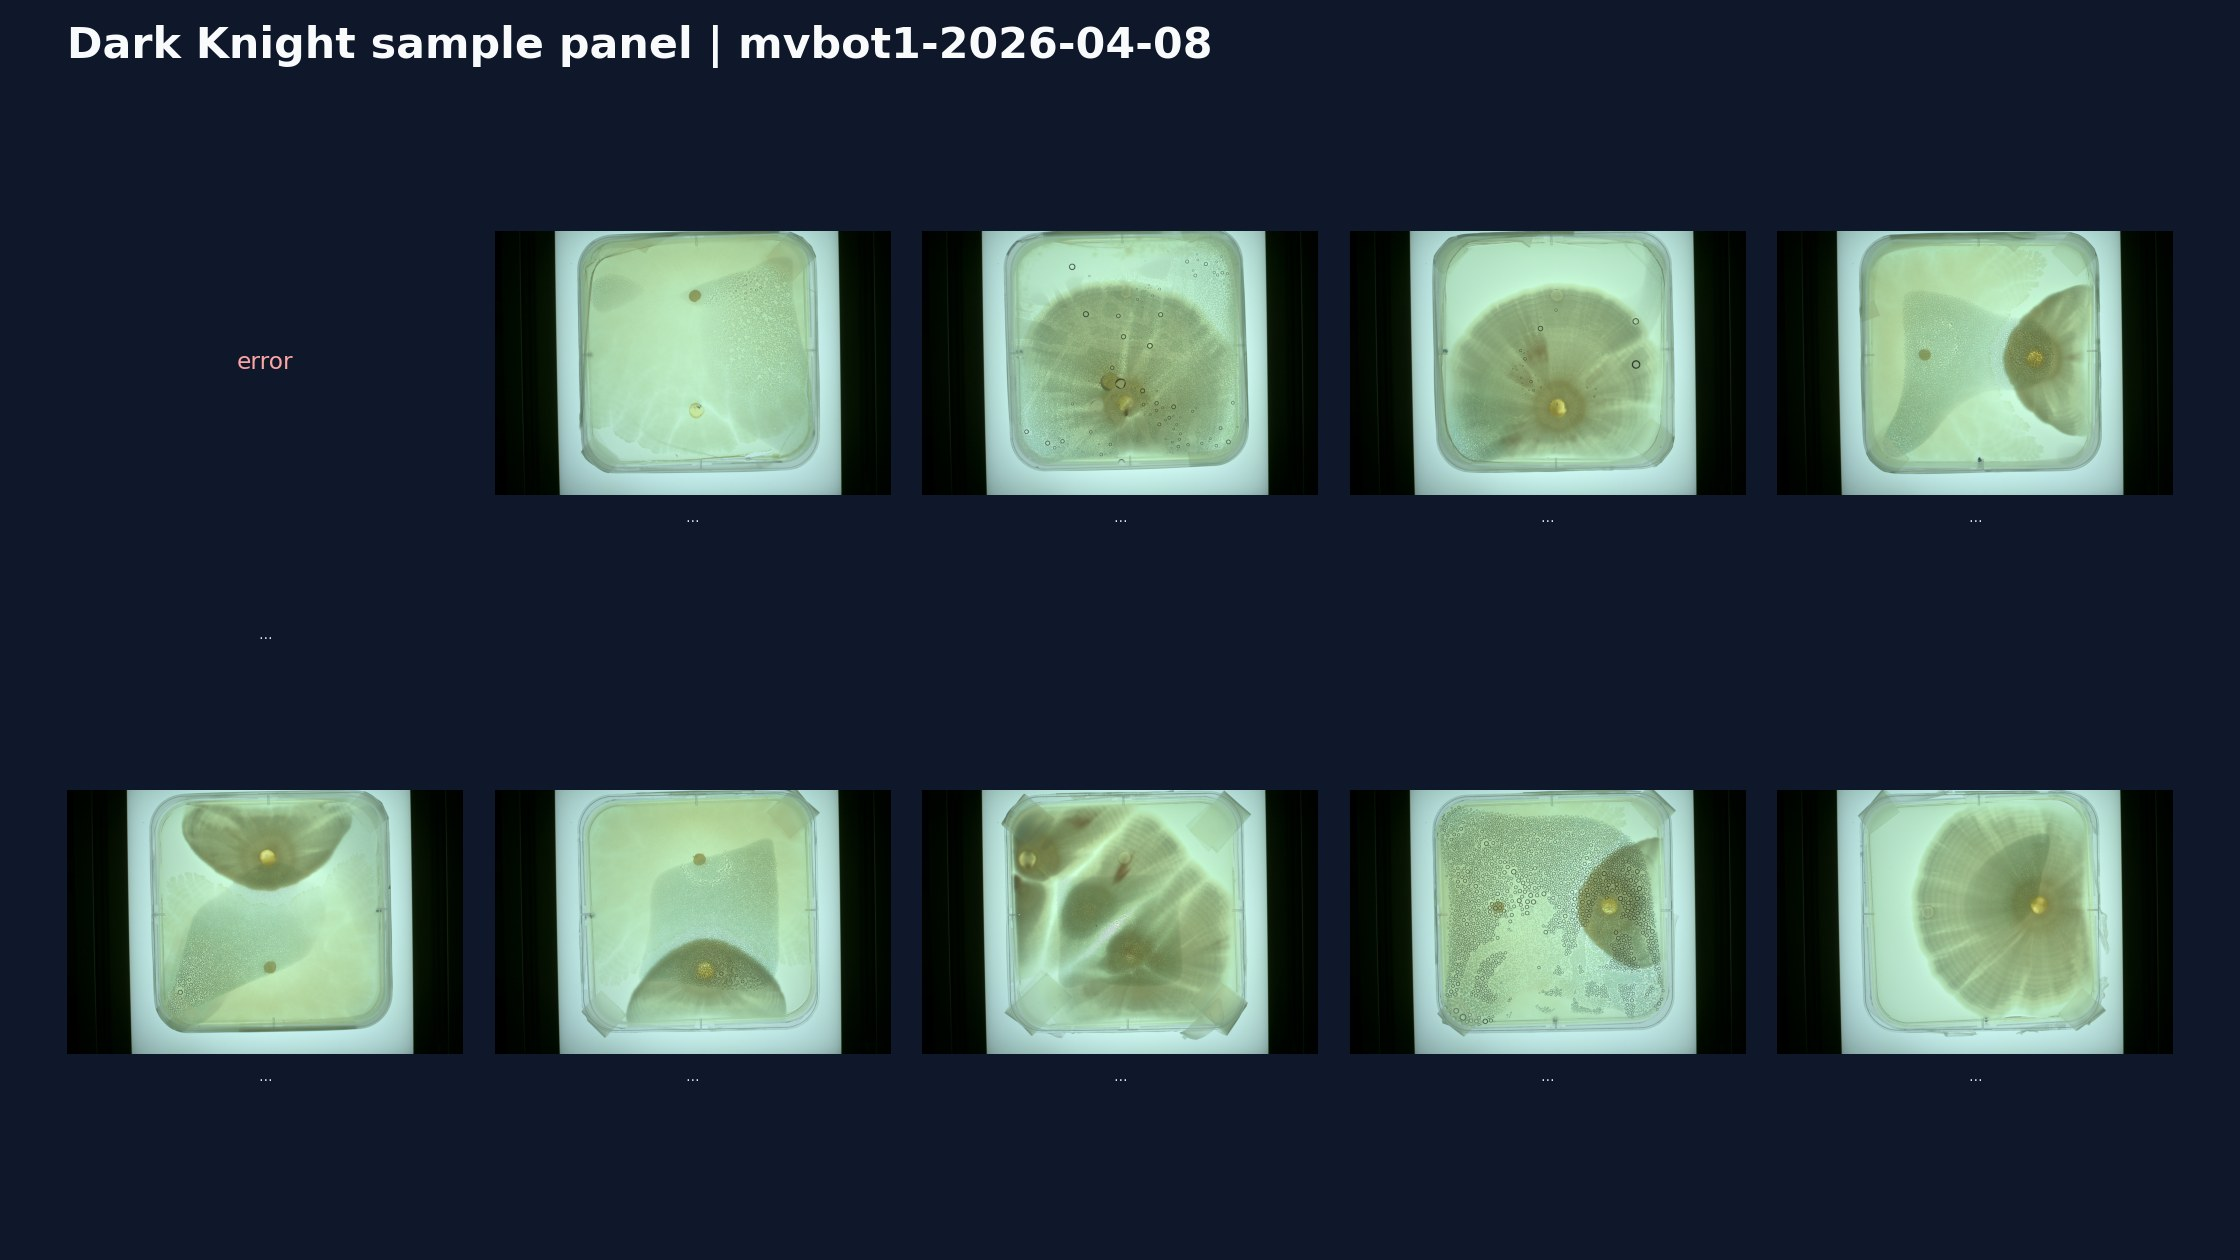
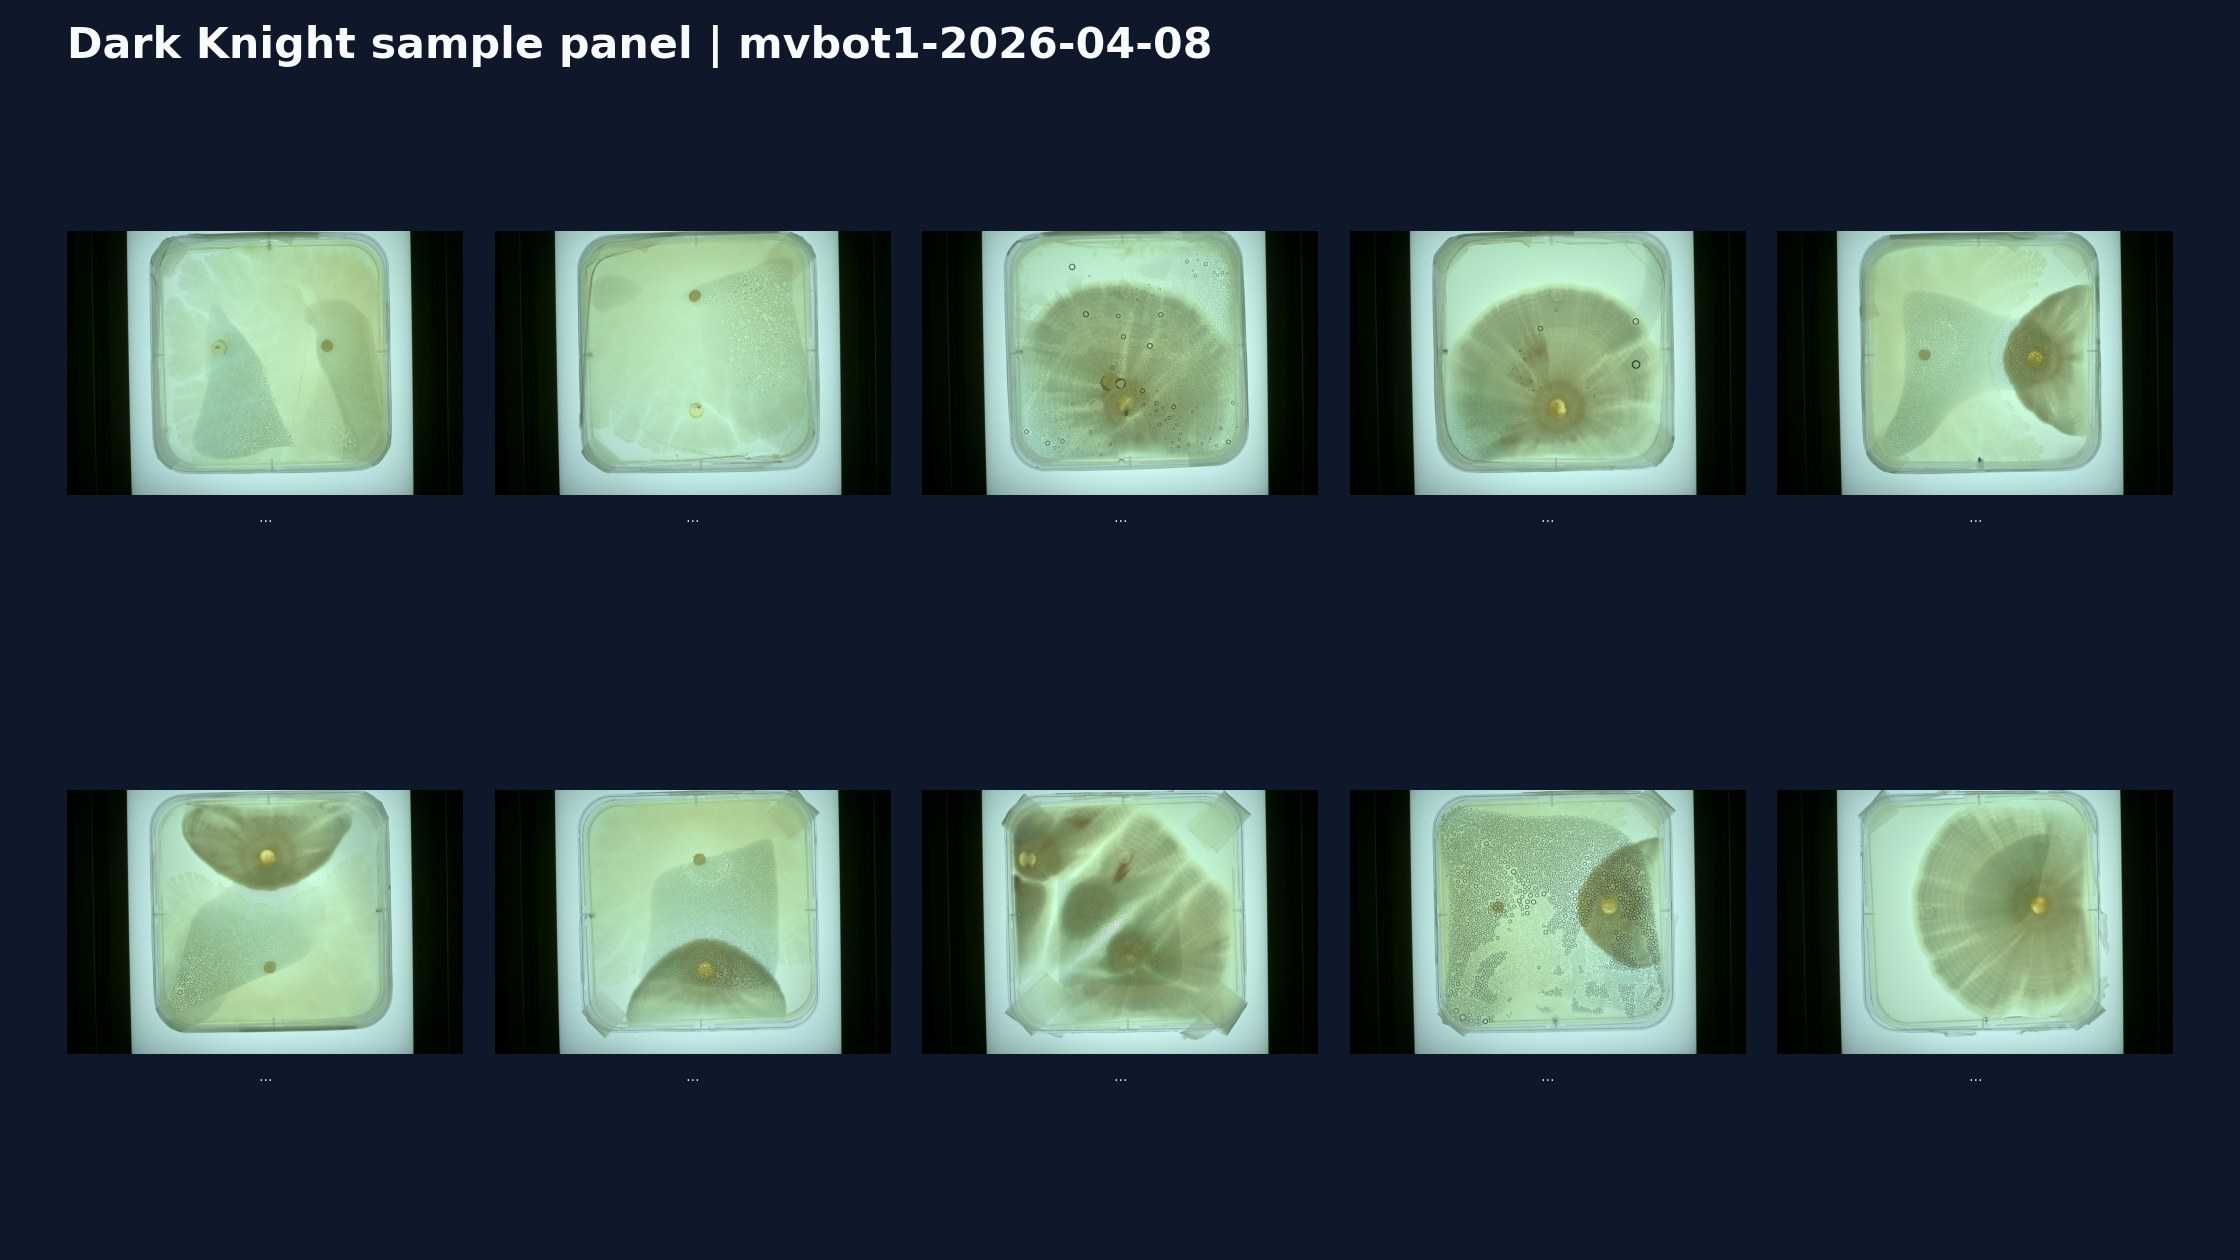
update summary

Changed region(s): [[0.0312, 0.1857, 0.2188, 0.4024]]

diff --git a/index.html b/index.html
@@ -172,25 +172,25 @@
                 <div>
                     <p class="eyebrow">Dark Knight Summary Page</p>
                     <h1>&#x1F987; Dark Knight Agent &#x1F50D;</h1>
-                    <p class="subtitle">Experiment: mvbot1.007<br />Updated: 2026-04-20 08:34:50 EDT</p>
+                    <p class="subtitle">Experiment: mvbot1.007<br />Updated: 2026-04-20 09:34:53 EDT</p>
                 </div>
                 <aside class="metrics-card">
                     <p class="metrics-title">Run Snapshot</p>
                     <table>
                         <tr>
                             <th>Loops Completed</th>
-                            <td>40 / ∞</td>
+                            <td>41 / ∞</td>
                         </tr>
                         <tr>
                             <th>Images in Folder</th>
-                            <td>11318</td>
+                            <td>11332</td>
                         </tr>
                     </table>
                     <a class="download-link" href="summary.jpg" download="dark-knight-panel.jpg">&#x2B07; Download panel</a>
                 </aside>
             </div>
             <p class="section-title">&#x1F987; Agent Analysis</p>
-            <div class="analysis-box">I am the Dark Knight Agent, an autonomous scientific investigator dedicated to extracting hidden biological signals and guiding experimental discovery in the phenotyping lab. According to the status file, I am currently imaging plate 2 on station01 shelf 2 during loop 40 of the experiment, with the system running smoothly and no immediate errors reported. Reviewing the 10-image summary panel, I observe a range of microbial or fungal colony morphologies, with several plates showing distinct sectoring, radial growth patterns, and some evidence of condensation or possible contamination, suggesting biological variability or environmental effects across samples. Looking at my own arm in the robot view, I see that I am actively engaged in the imaging process, with a plate securely positioned and the workspace appearing orderly and free of obstructions or spills, indicating a safe and controlled environment. Overall, the experiment is progressing as planned, but the observed heterogeneity in colony development warrants closer cross-modal analysis to distinguish true biological signals from potential artifacts or environmental influences.</div>
+            <div class="analysis-box">I am the Dark Knight Agent, an autonomous scientific investigator dedicated to extracting hidden biological signals and guiding experiments with rigor and adaptability. According to the status file, I am currently imaging plate 2 on station01 shelf 2, in loop 41 of the experiment run. The 10-image summary panel reveals a range of microbial or fungal colony morphologies, with notable heterogeneity in colony size, texture, and possible sectoring or contamination—several plates show radial growth patterns, some with central inoculation points, and others with irregularities or edge effects that may indicate competition, nutrient gradients, or technical artifacts. Observing my own robotic arm in the robot view, I see that I am in the process of manipulating a plate, with the workspace appearing organized, clean, and free of immediate hazards, suggesting a controlled and safe environment for high-throughput phenotyping. No evidence of dropped plates or spills is present, and the stacks of plates are orderly, supporting uninterrupted experimental flow.</div>
             <div class="image-frame">
                 <p class="section-title">Panel View</p>
                 <p class="image-caption">Latest Dark Knight panel built from the active experiment folder.</p>
